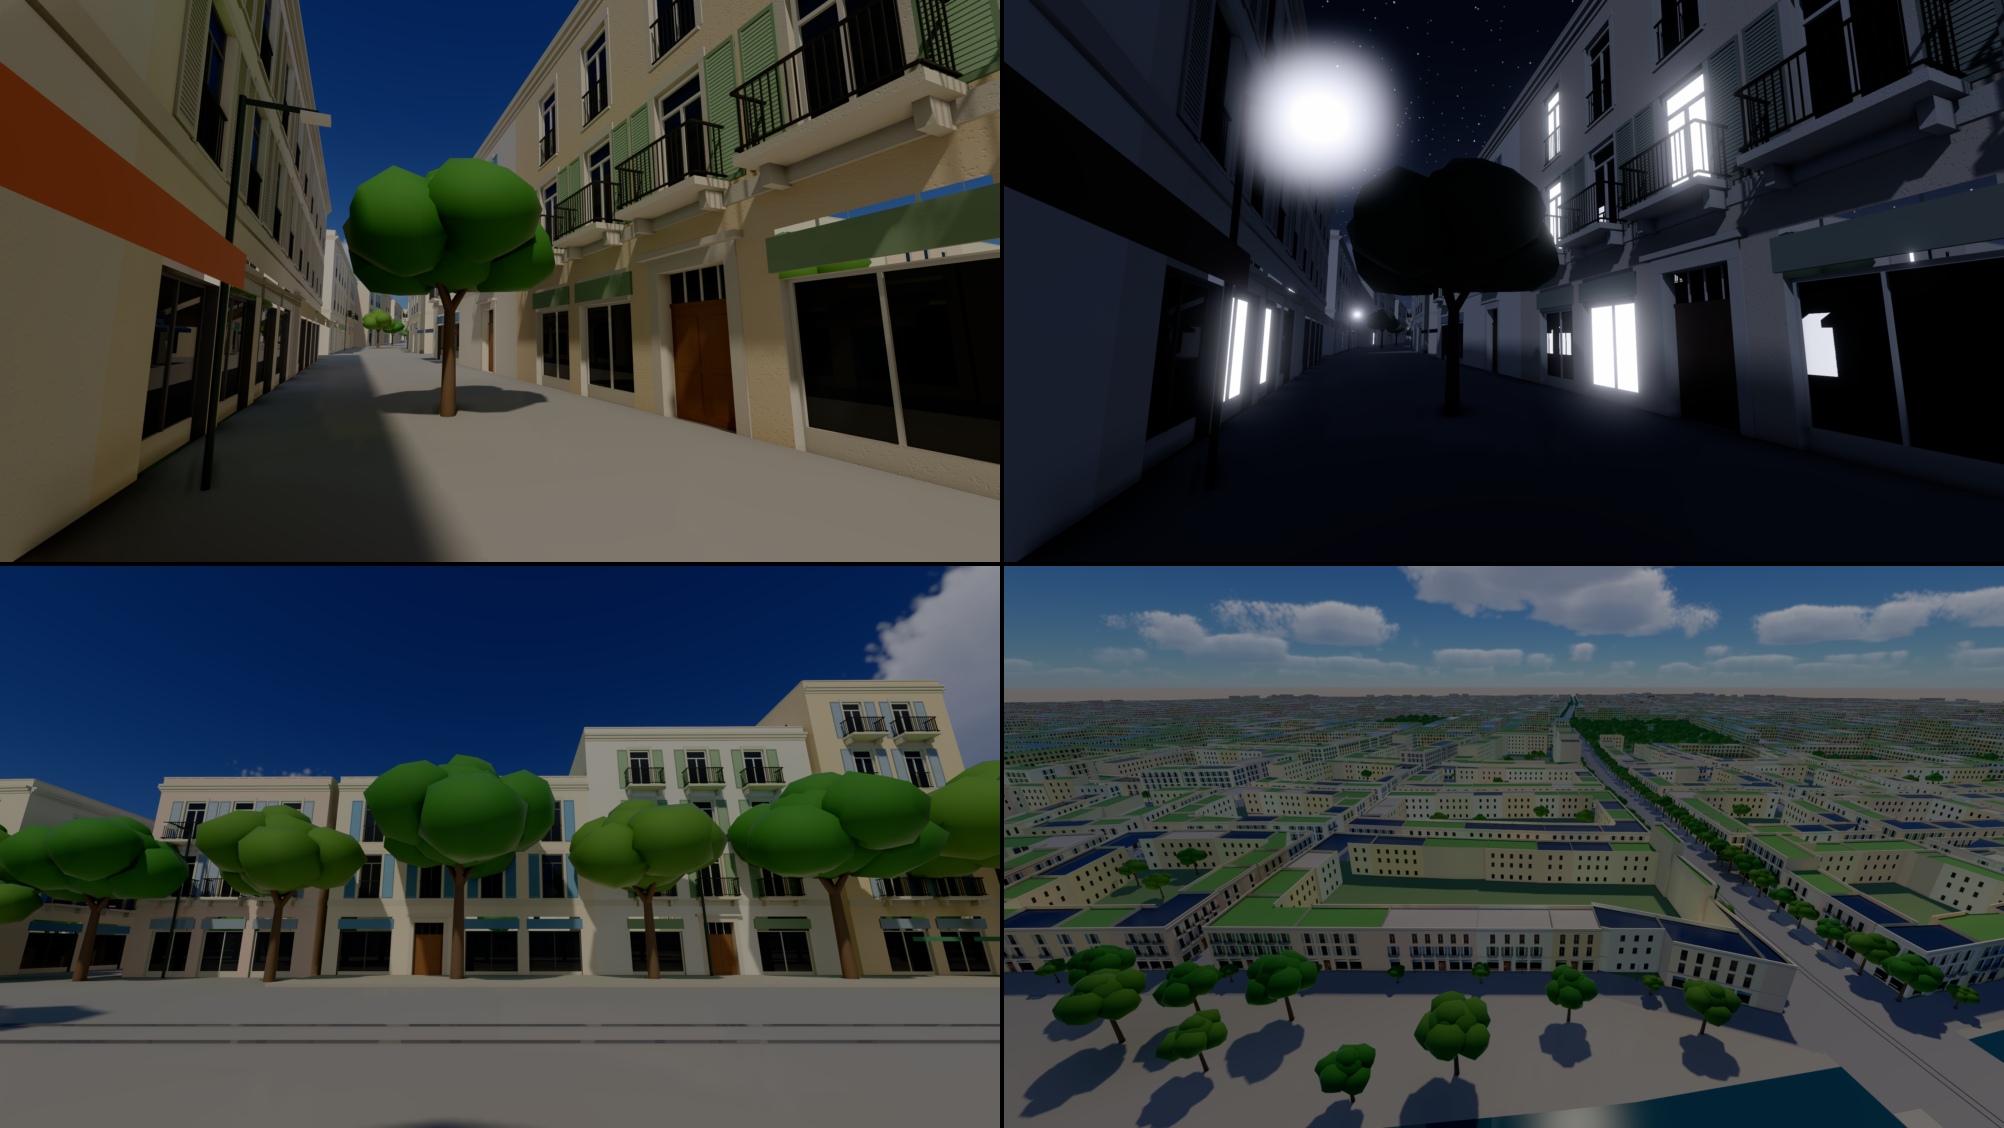
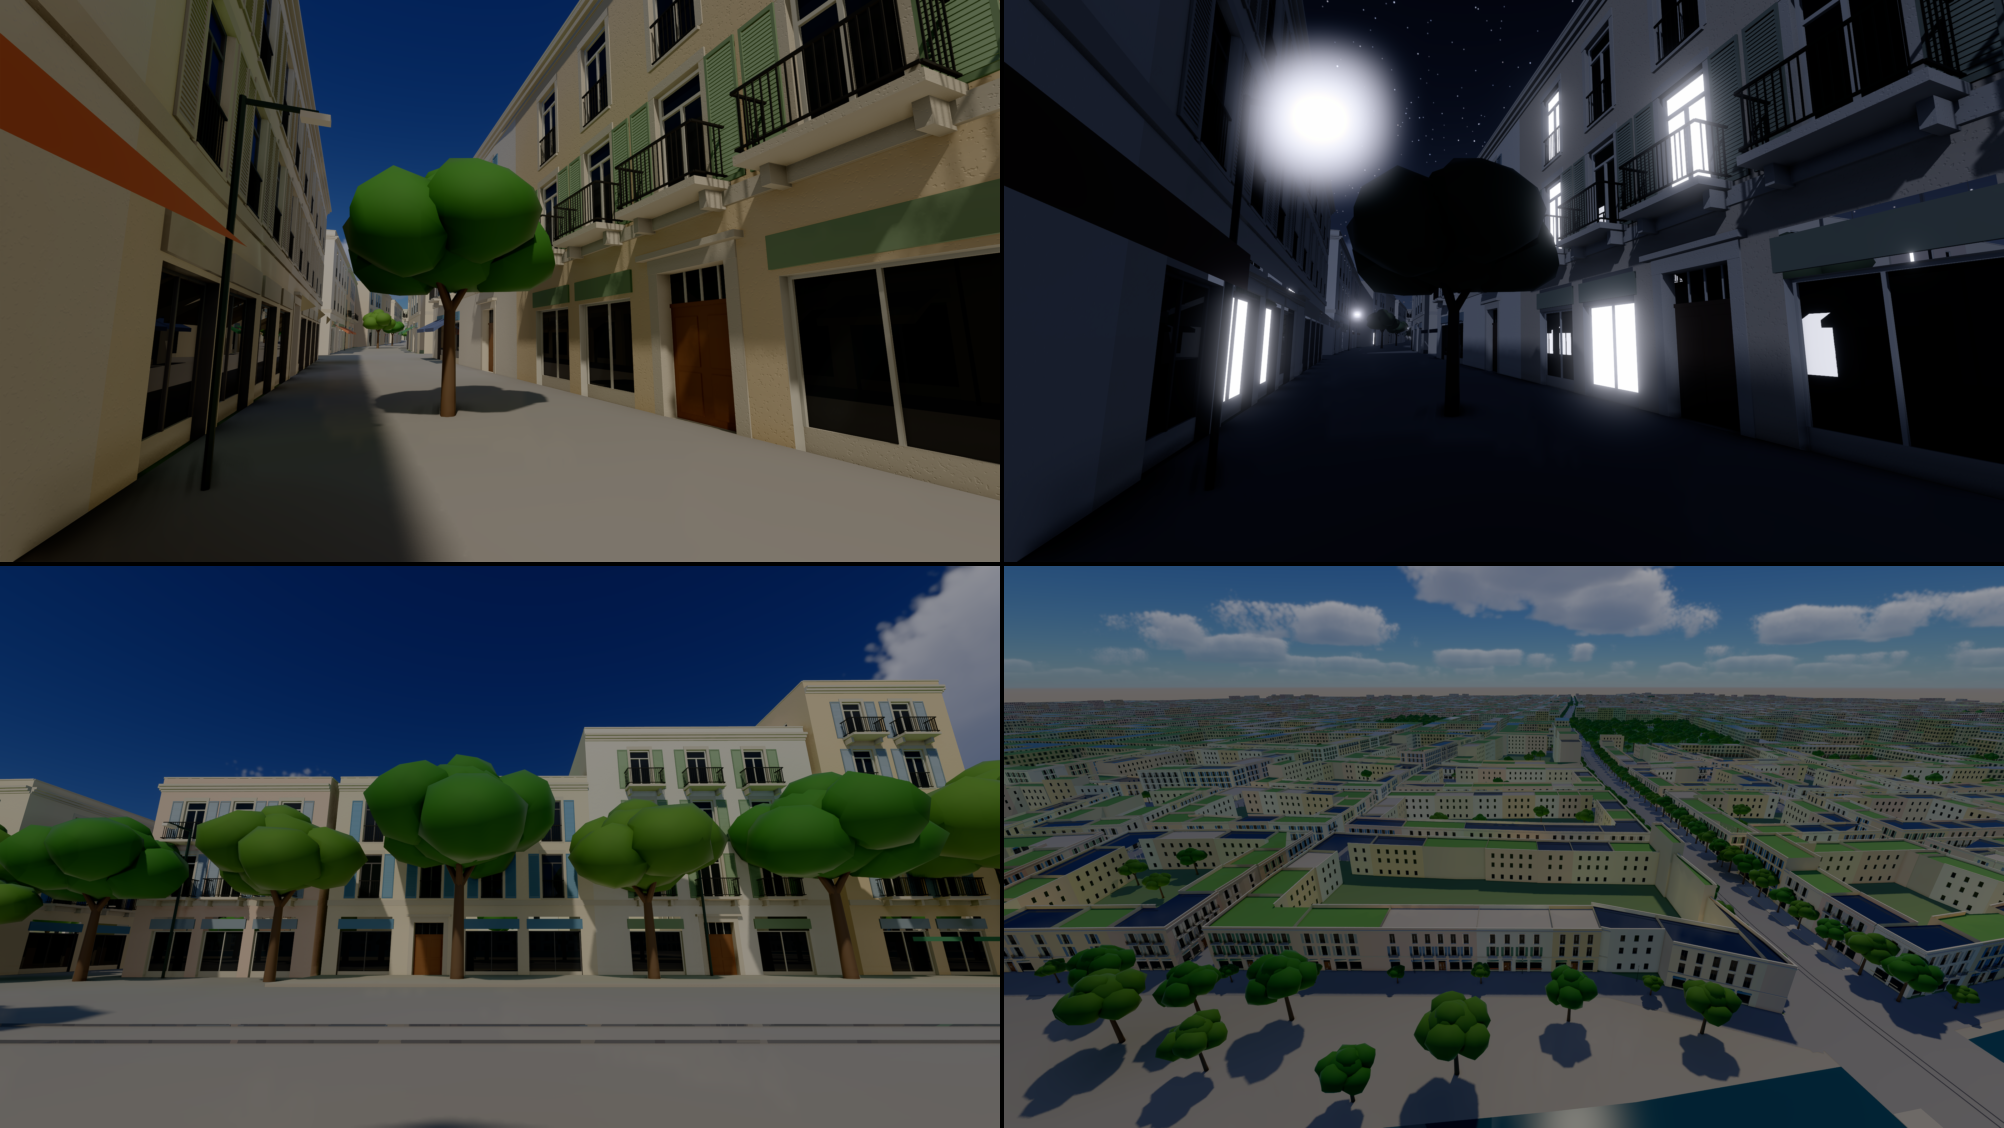
Kit: shopfronts the size of their opening, awnings with cheeks (#247)
The shop module covered a 3.3 m scope but drew nothing on the wall plane between its opening
and its fascia: holes into the building showed as speckles above the fascias. It now fills
its scope with the opening (2.6 m in the example's rules) and hangs its fascia on the wall
above, so the building's own render shows round it. Awnings get side cheeks, so they read as
awnings rather than floating bars from the pavement.

diff --git a/crates/forge-geom/src/modules.rs b/crates/forge-geom/src/modules.rs
@@ -155,6 +155,18 @@ fn quad(m: &mut TriMesh, p: [Vec3; 4], section: u8) {
     m.sections.extend([section, section]);
 }
 
+/// A triangle, its corners counter-clockwise seen from its front.
+fn triangle(m: &mut TriMesh, p: [Vec3; 3], section: u8) {
+    let n = (p[1] - p[0]).cross(p[2] - p[0]).normalize_or_zero();
+    let base = m.positions.len() as u32;
+    for q in p {
+        m.positions.push(q.to_array());
+        m.normals.push(n.to_array());
+    }
+    m.indices.extend([base, base + 1, base + 2]);
+    m.sections.push(section);
+}
+
 /// The wall's quad at depth `z`.
 fn wall_quad(w: f32, h: f32, z: f32) -> [Vec3; 4] {
     [
@@ -574,10 +586,11 @@ fn door(m: &mut TriMesh, w: f32, h: f32) {
     );
 }
 
-/// A shopfront: a deep opening glazed over a stone stall riser, mullions, a painted fascia
-/// over it, and an awning pulled out when `awning`.
+/// A shopfront: a deep opening the scope's size, glazed over a stone stall riser, mullions; a
+/// painted fascia over it, on the wall above the scope (the wall's own module shows round it);
+/// and an awning pulled out from the fascia when `awning`.
 fn shop(m: &mut TriMesh, w: f32, h: f32, awning: bool) {
-    let top = h - 0.75;
+    let top = h;
     let d = -0.3;
     quad(
         m,
@@ -648,12 +661,22 @@ fn shop(m: &mut TriMesh, w: f32, h: f32, awning: bool) {
     cuboid(
         m,
         Vec3::new(-0.1, top + 0.1, 0.0),
-        Vec3::new(w + 0.1, h - 0.12, 0.07),
+        Vec3::new(w + 0.1, top + 0.62, 0.07),
         SHUTTER,
         NO_BACK,
     );
     if awning {
         let (y0, y1, out) = (top + 0.35, top - 0.35, 1.5);
+        // Its cheeks, seen from both sides.
+        for x in [0.0, w] {
+            let cheek = [
+                Vec3::new(x, y0, 0.08),
+                Vec3::new(x, y1, out),
+                Vec3::new(x, y1 - 0.22, out),
+            ];
+            triangle(m, cheek, FABRIC);
+            triangle(m, [cheek[0], cheek[2], cheek[1]], FABRIC);
+        }
         let slope = [
             Vec3::new(0.0, y1, out),
             Vec3::new(w, y1, out),
